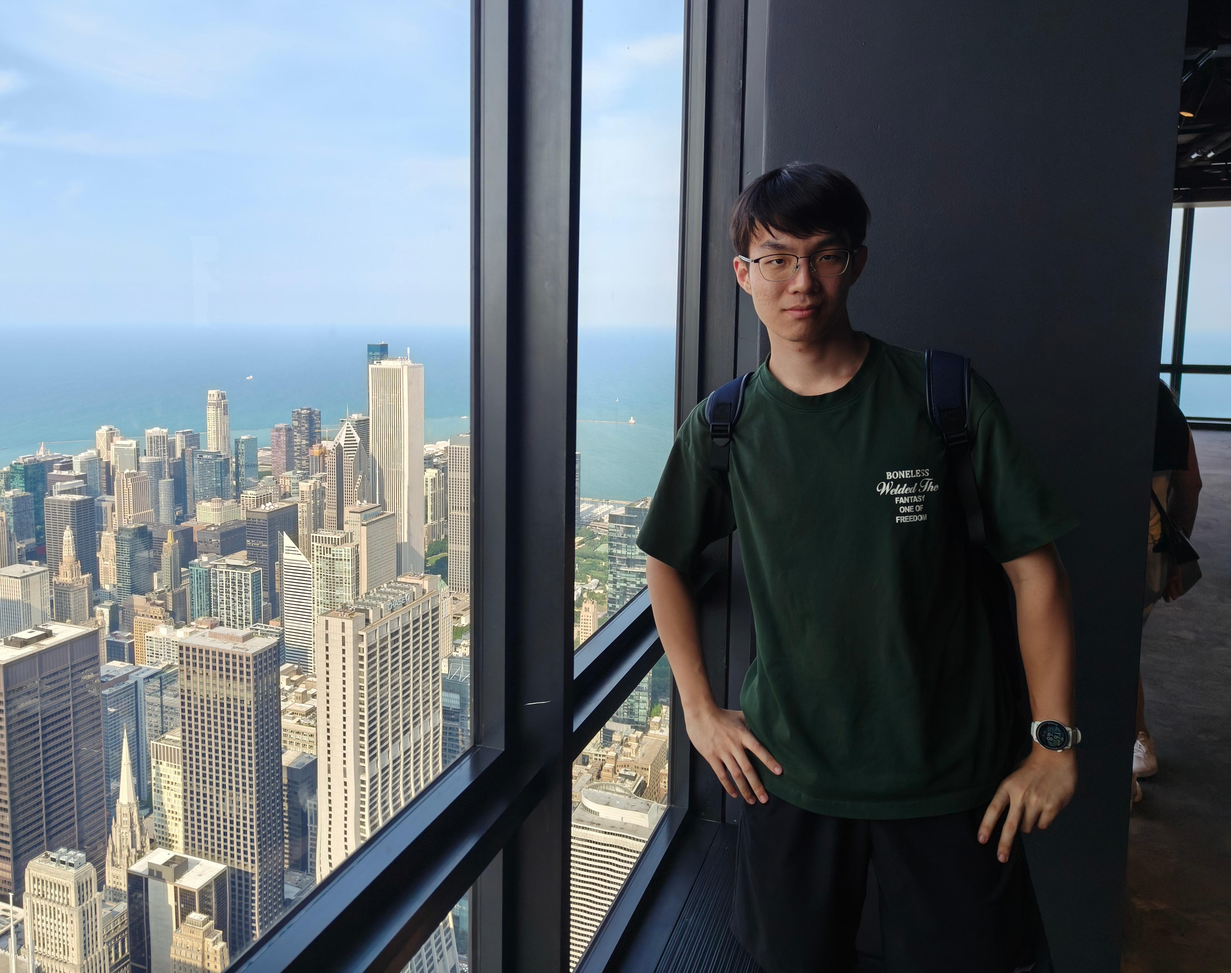
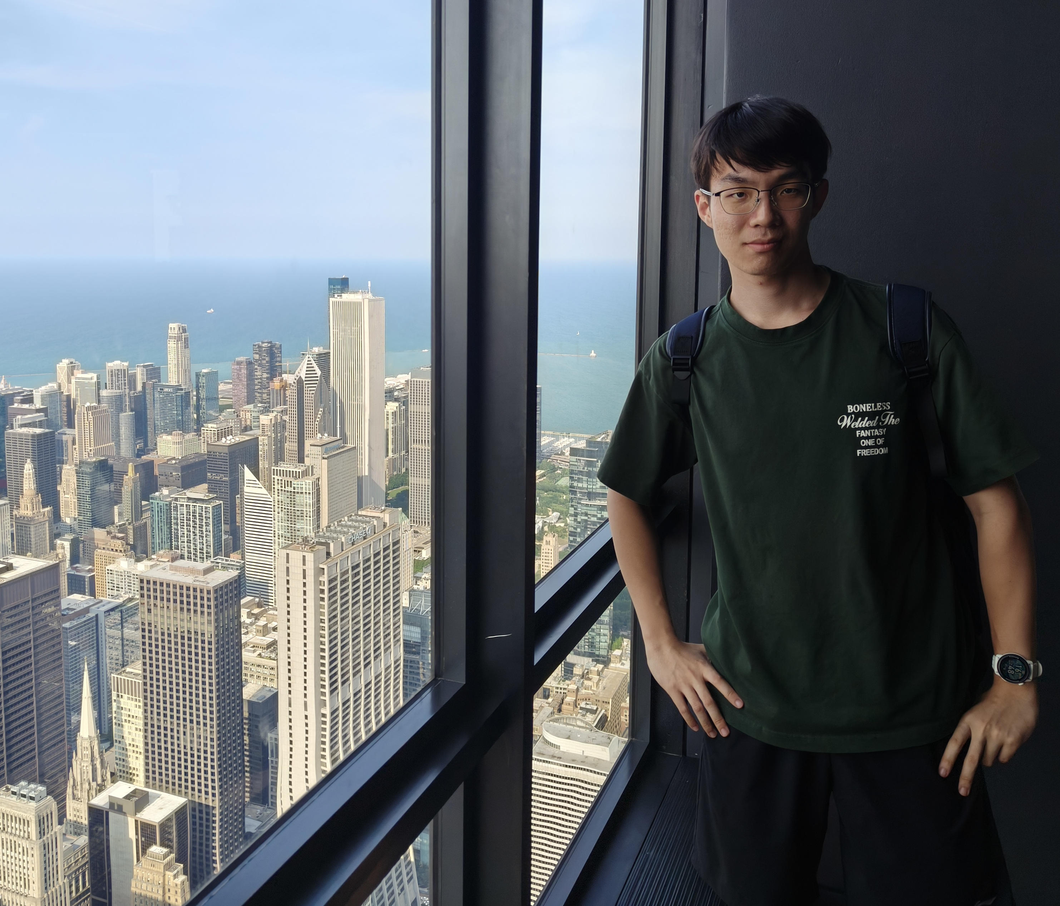
format and contents

diff --git a/assets/css/main.scss b/assets/css/main.scss
@@ -369,3 +369,14 @@ code {
 .publications ol.bibliography li {
   margin-left: 0;
 }
+
+/* Override the default profile container width */
+.profile {
+  width: 450px !important; /* Adjust this value (e.g., 400px, 500px) to make it larger */
+}
+
+/* Ensure the image scales correctly within the new container size */
+.profile img {
+  width: 100%;
+  height: auto;
+}

diff --git a/_pages/about.md b/_pages/about.md
@@ -9,12 +9,21 @@ profile:
   image: prof_pic.jpg
   image_circular: false # crops the image to make it circular
   more_info: >
-    Carnegie Mellon University
-    <br>
-    Pittsburgh, PA
+      <div style="display: flex; justify-content: space-between; text-align: left;">
+        <div style="margin-right: 10px;">
+          <p><i class="fas fa-map-marker-alt fa-fw"></i> Carnegie Mellon University<br>
+          &nbsp;&nbsp;&nbsp;&nbsp;&nbsp;Pittsburgh, PA</p>
+        </div>
+        <div>
+          <p><i class="fas fa-envelope fa-fw"></i> haoyans@andrew.cmu.edu<br>
+          <i class="fas fa-phone fa-fw"></i> (408) 590-0658<br>
+          <a href="https://www.linkedin.com/in/kilian-shi" target="_blank"><i class="fab fa-linkedin fa-fw"></i> LinkedIn</a><br>
+          <a href="https://github.com/Haoyan-collab" target="_blank"><i class="fab fa-github fa-fw"></i> GitHub</a></p>
+        </div>
+      </div>
 
-selected_papers: false
-social: true # includes social icons at the bottom of the page
+  selected_papers: false
+  social: false # disables social icons at the bottom of the page
 
 announcements:
   enabled: false
@@ -35,7 +44,7 @@ My research experience includes projects accepted at IEEE ISBI 2026 and MICCAI 2
 
 Alongside academic research, I enjoy building robust, production-oriented AI systems. During my AI engineering internship at Ericsson, I architected an end-to-end Fusion-RAG search platform and built automated evaluation pipelines to improve enterprise query relevance. I value being involved in the full lifecycle of a project, from understanding a problem and designing a model or system to evaluating it carefully and deploying it in practice.
 
-## Research Interests
+**Research Interests**
 
 - **Foundation Models and Representation Learning** — model adaptation, efficient learning, evaluation, and reliable use of pretrained representations.
 - **Language and Multimodal Models** — LLMs, vision-language models, multimodal reasoning, retrieval-augmented systems, and methods for connecting different forms of information.
@@ -44,7 +53,7 @@ Alongside academic research, I enjoy building robust, production-oriented AI sys
 
 My current research background is in medical vision, where limited labels, distribution shifts, and long temporal context make algorithmic problems concrete and meaningful. I am open to learning across domains and would be glad to contribute wherever my experience in representation learning, foundation-model adaptation, experimentation, and system building can be useful.
 
-## Publications
+**Publications**
 
 <div class="publications">
 
@@ -52,7 +61,7 @@ My current research background is in medical vision, where limited labels, distr
 
 </div>
 
-## Timeline
+**Timeline**
 
 <div class="timeline-container">
   {% for item in site.data.timeline %}
